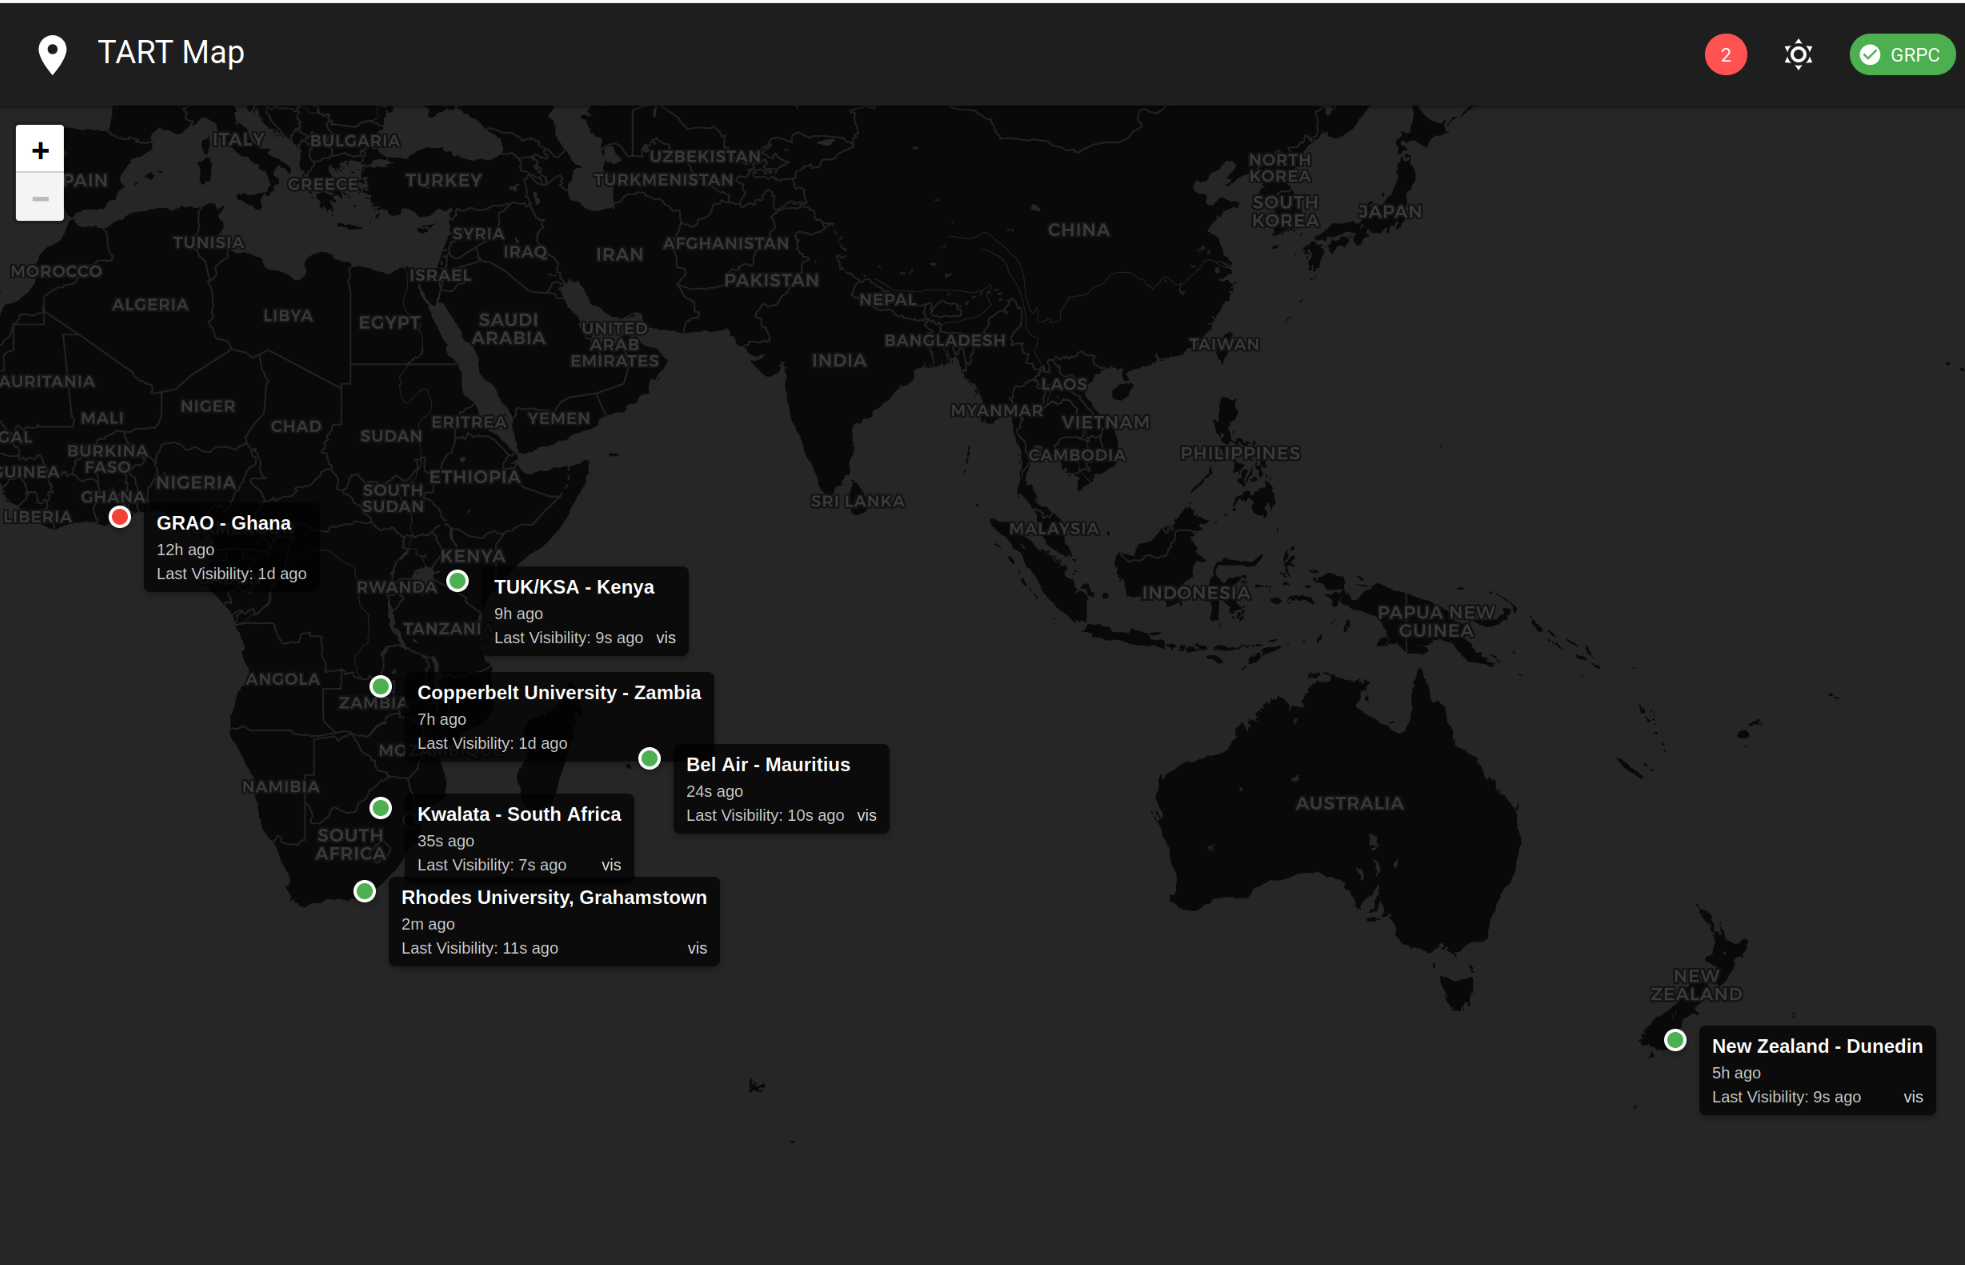
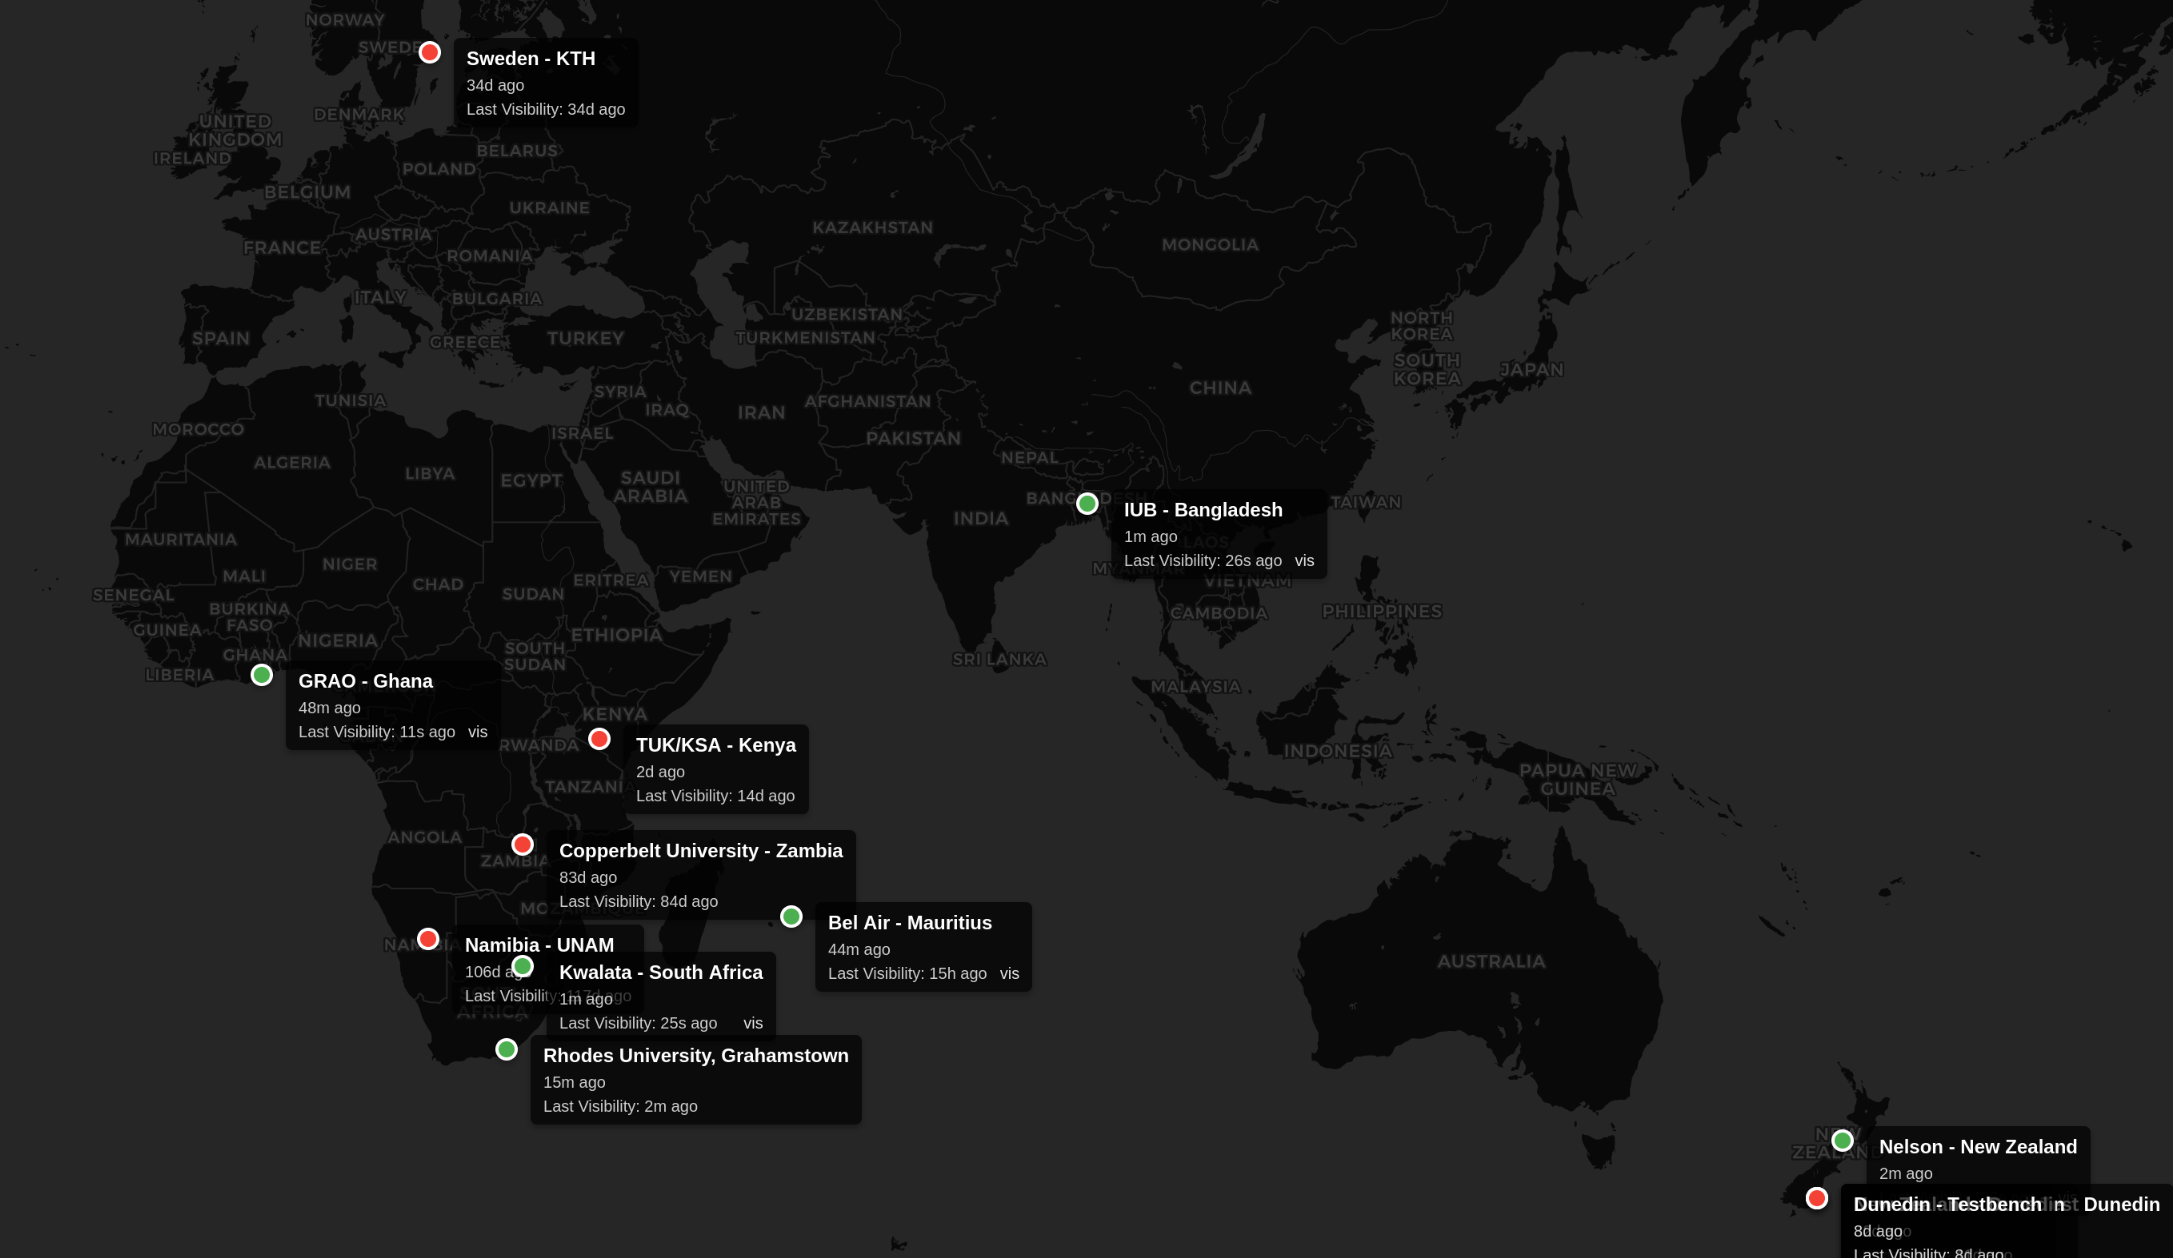
Update overview

diff --git a/tart_workshop/tart_overview/tart_overview.tex b/tart_workshop/tart_overview/tart_overview.tex
@@ -9,6 +9,9 @@
 \usepackage{gensymb}
 \usepackage{amsmath, mathrsfs}
 
+\usepackage{tikz}
+\usetikzlibrary{shapes,arrows,positioning, fit, backgrounds, calc}
+
 % \captionsetup[figure]{labelformat=empty}% redefines the caption setup of the figures environment in the beamer class.
 
 \usetheme{Boadilla}
@@ -36,15 +39,14 @@
   \vspace{1cm}
   \includegraphics[width=3.5cm]{../tart_overview/fig/UofOtago_logo.pdf} \\
 
-%   \includegraphics[width=0.6\linewidth]{../tart_overview/fig/elec_header_font.pdf}
+  \includegraphics[width=0.6\linewidth]{../tart_overview/fig/elec_header_font.pdf}
 }
 
 \logo{
   \pgfputat{\pgfxy(-0.72,7.7)}{\pgfbox[center,base]{\includegraphics[width=1cm]{../tart_overview/fig/elec_logo.pdf}}}
-  \pgfputat{\pgfxy(-1,6.9)}{\pgfbox[center,base]{\includegraphics[width=1.5cm]{../tart_overview/fig/UofOtago_logo.pdf}}}
 }
 
-\date[Feb 2026] % (optional, should be abbreviation of conference name)
+\date[Madagascar 2026] % (optional, should be abbreviation of conference name)
 {}
 
 \begin{document}
@@ -75,7 +77,11 @@
   % You might wish to add the option [pausesections]
 \end{frame}
 
-\section{Origins}
+\section{What is TART?}
+
+\begin{frame}{TART: The network}
+   \includegraphics[width=\linewidth]{fig/web_map.png}
+\end{frame}
 
 \begin{frame}
 \includegraphics[width=\linewidth]{fig/2018-MeerKAT-5-1030x355.jpg}
@@ -91,15 +97,8 @@
 \end{block}
 \end{frame}
 
-\begin{frame}{TART: Early Prototype}
-   \includegraphics[width=\linewidth]{fig/albatross_frame.png}
-\end{frame}
-%
 
 
-\begin{frame}{TART: The network}
-   \includegraphics[width=\linewidth]{fig/web_map.png}
-\end{frame}
 
 \begin{frame}
    \includegraphics[width=\linewidth]{fig/zambia_array.jpg}
@@ -180,6 +179,82 @@
 %   \includegraphics[height=0.4\textheight]{fig/rhodes_photo_elec.jpg}
 % \end{frame}
 
+\begin{frame}
+\resizebox{\linewidth}{8cm}{
+\begin{tikzpicture}[
+    node distance=1.5cm,
+    font=\sffamily\small,
+    % Define styles
+    antenna/.style={isosceles triangle, draw, shape border rotate=-90, minimum width=0.5cm, minimum height=0.5cm, inner sep=0},
+    module/.style={rectangle, draw, fill=blue!5, minimum width=3cm, minimum height=3.5cm, rounded corners, align=center, thick},
+    component/.style={rectangle, draw, fill=orange!10, minimum width=2cm, minimum height=1cm, align=center, thick},
+    mb/.style={rectangle, draw, dashed, inner sep=1cm, fill=gray!5, rounded corners},
+    spi_bus/.style={<->, >=stealth, very thick, double, double distance=1pt},
+    arrow/.style={-stealth, thick}
+]
+
+    % --- RADIO MODULES AND ANTENNAS ---
+    % Drawing 3 representative modules to avoid clutter, implying the others
+    \foreach \m [count=\i] in {1, 2, 6} {
+        \node[module] (mod\i) at ({(\i-1)*4.5}, 0) {Radio Module \m \\ (4 Receivers)};
+
+        % Labeling the gap for modules 3, 4, 5
+        \ifnum \i=2
+            \node at ($(mod\i.east) + (0.75, 0)$) {\LARGE $\dots$};
+        \fi
+
+        % Antennas for each module
+        \foreach \a in {1, 2, 3, 4} {
+            \node[antenna] (ant\i\a) at ($(mod\i.north) + ({-1.2 + (\a-1)*0.8}, 1.75)$) {\pgfmathparse{int(\a+(\m-1)*4)}\pgfmathresult};
+            \draw[arrow] (ant\i\a.south) -- ($(mod\i.north) + ({-1.2 + (\a-1)*0.8}, 0)$);
+        }
+
+        % Annotation for antenna count
+        \node[above=0.2cm of ant\i2, xshift=0.4cm] {\small Antennas $\times$4};
+
+        % Labeling the gap for antennas 3, 4, 5
+        \ifnum \i=2
+            \node at ($(ant\i2.east) + (2.5, 0)$) {\LARGE $\dots$};
+        \fi
+
+    }
+
+    % --- MOTHERBOARD COMPONENTS ---
+    % Correlator (Central hub)
+    \node[component, minimum width=10cm, fill=green!10] (correlator) [below=2.5cm of mod2] {Correlator \\ (Processing 24 Channels)};
+
+    % Connections from modules to Correlator
+    \draw[arrow] (mod1.south) -- (mod1.south |- correlator.north);
+    \draw[arrow] (mod2.south) -- (mod2.south |- correlator.north);
+    \draw[arrow] (mod3.south) -- (mod3.south |- correlator.north);
+
+    % Clock and Control Computer
+    \node[component] (clock) [left=1.5cm of correlator] {Global \\ Clock};
+    \node[component] (computer) [right=1.5cm of correlator] {Control \\ Computer};
+
+    % Timing and Control lines
+    \draw[arrow, dashed, blue] (clock.east) -- (correlator.west);
+    \draw[arrow, dashed, blue] (clock.north) |- (mod1.west) node[pos=0.8, above] {GCLK};
+
+    \draw[spi_bus, red] (computer.west) -- node[above] {SPI} (correlator.east);
+    \draw[arrow, red] (computer.north) |- (mod3.east) node[pos=0.8, above] {Control};
+
+    % --- MOTHERBOARD BOUNDARY ---
+    \begin{scope}[on background layer]
+        \node[mb, fit=(mod1) (mod3) (correlator) (clock) (computer), label={[anchor=south east]below right:TART Motherboard}] (motherboard) {};
+    \end{scope}
+\end{tikzpicture}}
+\end{frame}
+
+\begin{frame}{TART: Early Prototype}
+   \includegraphics[width=\linewidth]{fig/albatross_frame.png}
+\end{frame}
+%
+\begin{frame}{TART Electronics}
+\begin{center}
+ \includegraphics[width=0.65\linewidth,angle=90]{fig/tart3_boxed.jpg}
+\end{center}
+\end{frame}
 
 
 \begin{frame}{TART: Overview}
@@ -259,10 +334,6 @@
  
 
 
-\begin{frame}{TART Electronics}
- \includegraphics[width=\textwidth]{fig/tart3_boxed.jpg}
-\end{frame}
-
 \begin{frame}{TART Features}
  \begin{columns}
   \begin{column}{0.4\linewidth}
@@ -305,7 +376,7 @@ The hardware is constantly being developed.
 \end{frame}
 
 
-\begin{frame}{Upgraded Radios, early 2026}
+\begin{frame}{Upgraded Radios}
   \begin{columns}
   \begin{column}{0.4\linewidth}
     \includegraphics[width=\linewidth]{fig/max2771.png}
@@ -509,7 +580,7 @@ The hardware is constantly being developed.
     \begin{itemize}
     \item TART 4.0?
     \item Transient event detection. Lightning, cosmic rays.
-    \item More workshops! Bangaladesh, Morrocco, Malta, Oxford, Cambridge, Berkeley, Burkina Faso, Malawi, Rarotonga.
+    \item More workshops! Ethiopia, Egypt, Morrocco, Malta, Oxford, Cambridge, Berkeley, Burkina Faso, Malawi, Rarotonga.
     \item Automatic tracking of near earth objects
     \item New Array Designs
     \item New imaging algorithms (Gridless, Direct from Data)

diff --git a/tart_workshop/tart_imaging/tart_imaging.tex b/tart_workshop/tart_imaging/tart_imaging.tex
@@ -199,7 +199,7 @@ Building images of the radio sky from many separate radio receivers.
 
 \begin{frame}{Visibilities}
 
-\begin{block}{Visibilities: What we measure}
+\begin{block}{Visibilities: The measurements}
 Average product of pairs of signals $E_i(t) \times E_j^{\star}(t)$.
 \end{block}
 \pause
